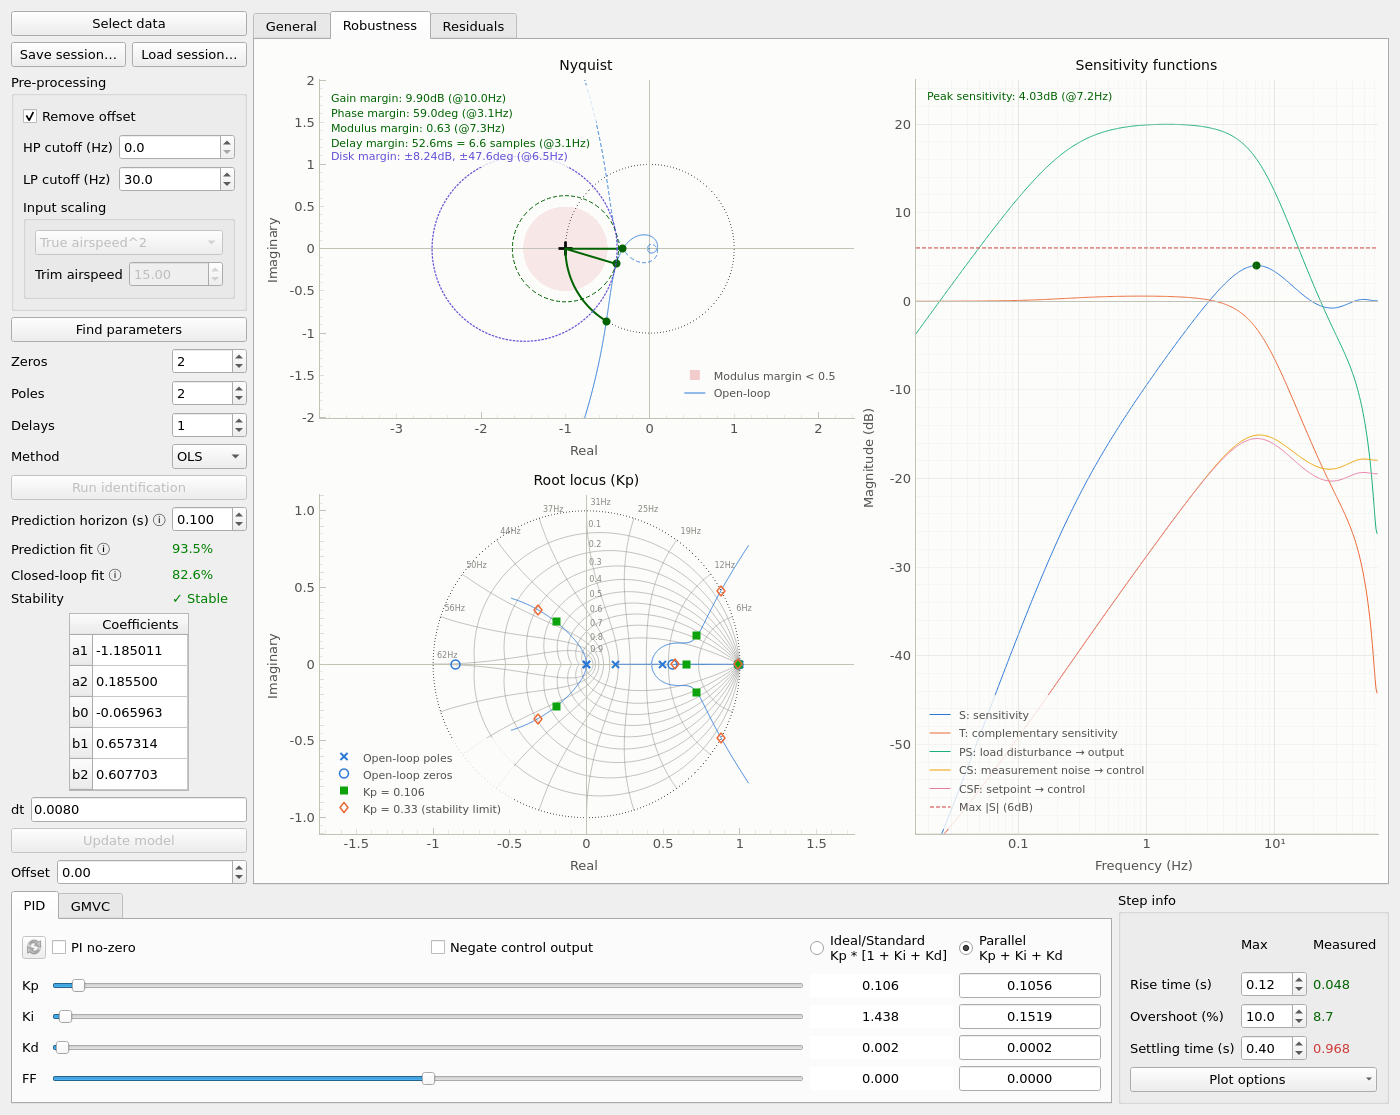
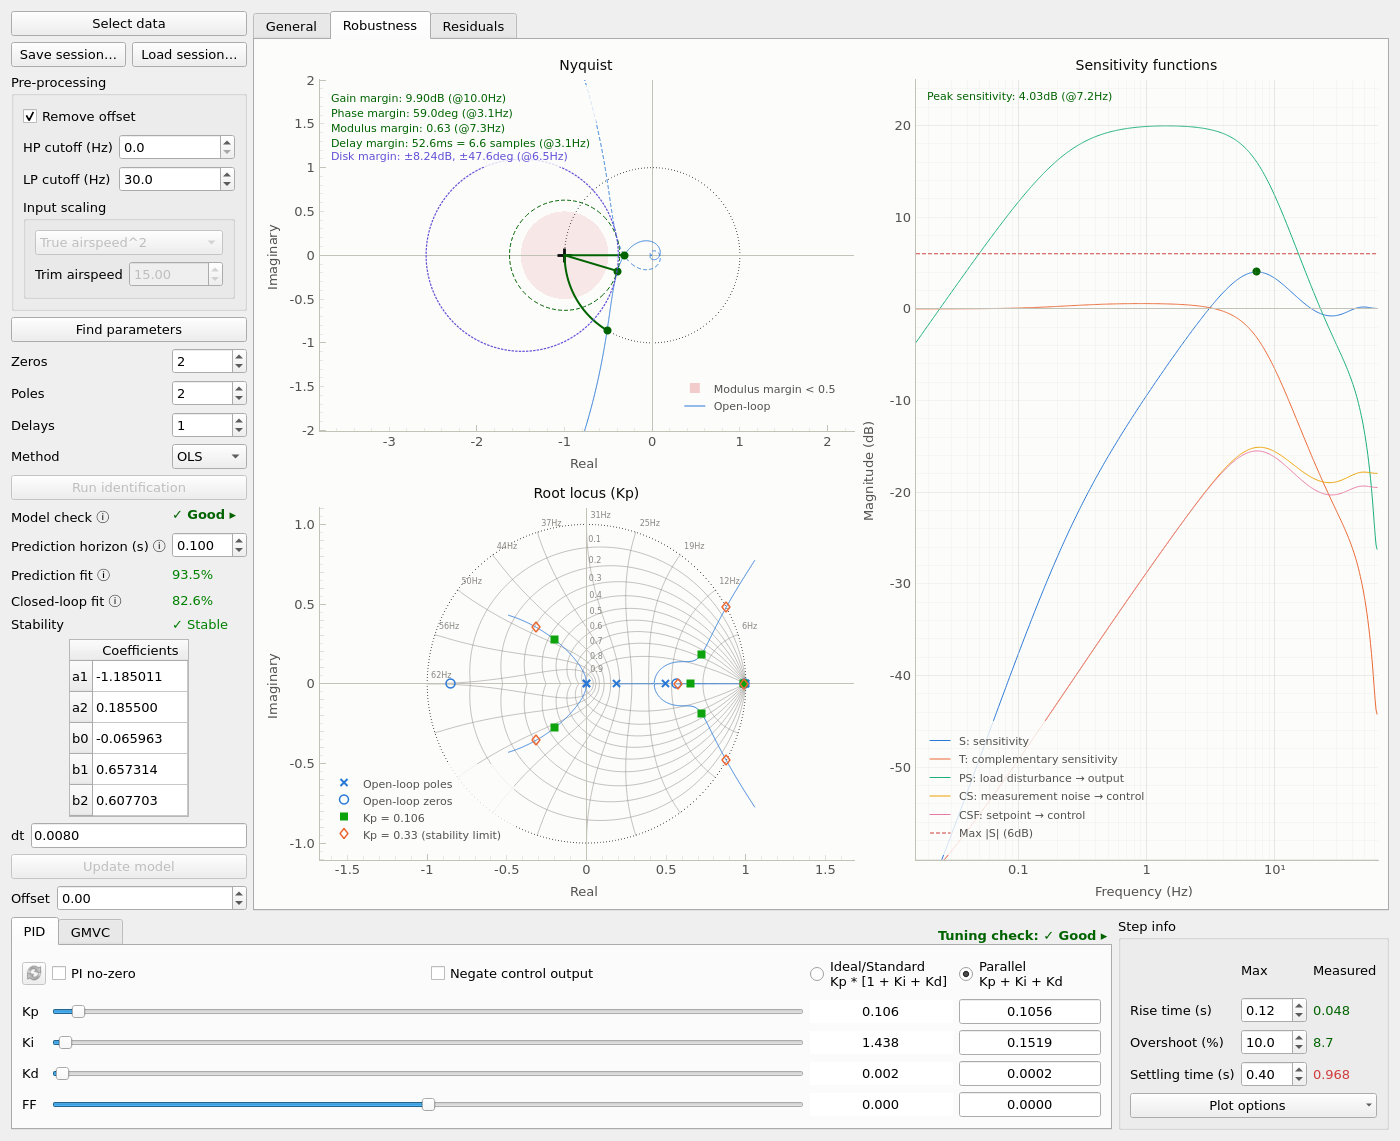
docs(autotune): show the checks in the README screenshots
The main window and robustness screenshots now show the verdicts of
the model and tuning checks and the band shaded on the Bode plot.

New screenshots show what the checks look like when they warn, which
the good model of the others does not: the details of each check, a
model not to tune on with its struck gains, and a tuning with low
margins.

diff --git a/autotune/README.md b/autotune/README.md
@@ -152,8 +152,12 @@ when it does not pass, what to do. *Show this band on the Bode plot* zooms the B
 the band, where the model can be compared with the measured points (a double click on the
 plot restores its range). This window can stay open: it follows the gains.
 
+<img src="docs/gui_checks_details.png" width="600"/>
+
 While the model is not good, a banner over the gains gives the reason. On *Do not tune*, the
 gains are also struck through until *Use anyway*, which holds until the next model.
+
+![Model not to tune on](docs/gui_model_check.png)
 
 Without a *reference* in the preset, the plant is measured from the input, which the feedback
 biases where it dominates the excitation. When the residuals show this feedback (Residuals
@@ -179,6 +183,8 @@ Click the verdict for the details of each margin, in the same window as those of
 check. While the tuning is not good, the banner over the gains gives the reason, next to
 that of the model check. The margins are those of the model: they hold as far as the model
 check is good.
+
+![Tuning with low margins](docs/gui_tuning_check.png)
 
 #### Tuning Gains
 
